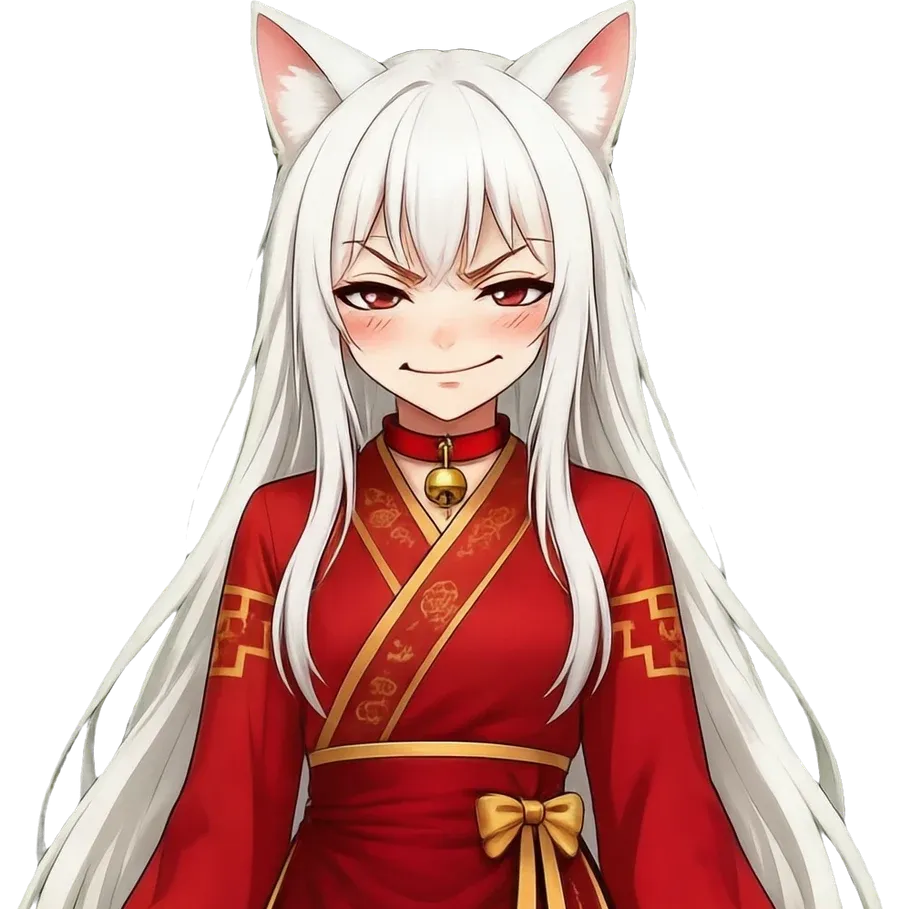
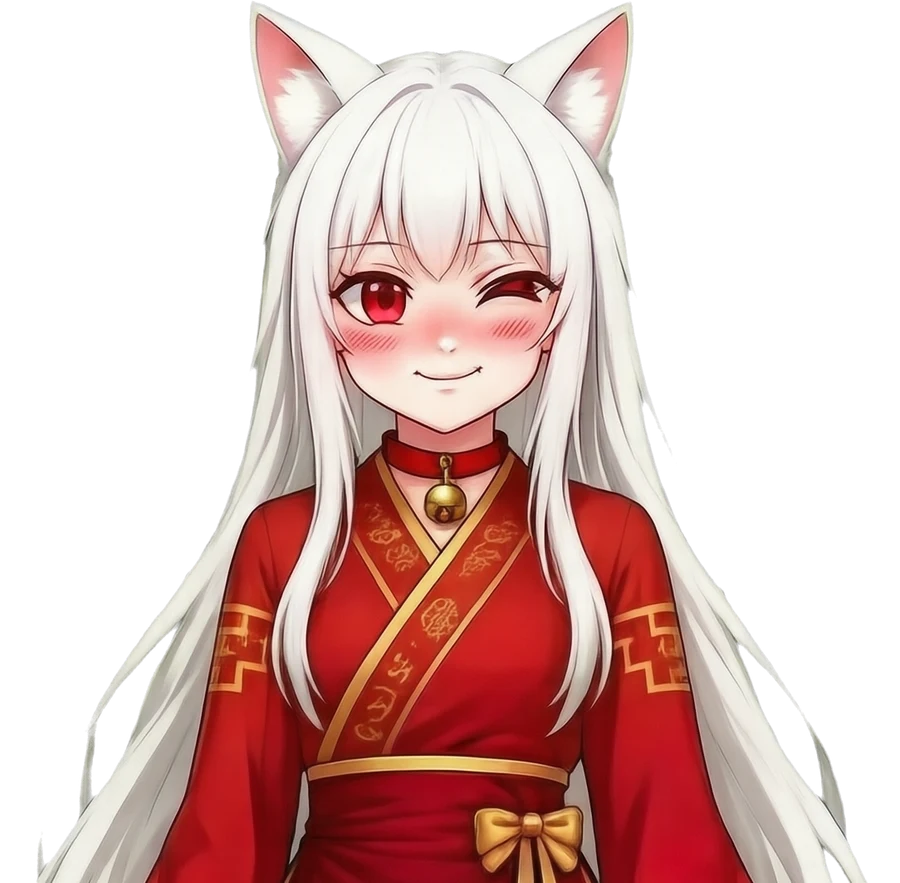
立绘: smug得意表情重做——阴险坏笑改傲娇得意(嘟嘴鼓腮+脸红+抬下巴+可爱笑眼),基准绿幕由git恢复的全身图合成,52%裁切管线一致

diff --git a/galgame/js/engine.js b/galgame/js/engine.js
@@ -49,7 +49,7 @@
       $("#sprites").appendChild(el);
     }
     if (who === "catgirl") el.innerHTML = ART.catGirl(expr || "normal");
-    else el.innerHTML = '<img class="chara-img" src="images/cat_mascot.webp?v=251025c" alt="唐猫（白猫）" draggable="false">';
+    else el.innerHTML = '<img class="chara-img" src="images/cat_mascot.webp?v=251025d" alt="唐猫（白猫）" draggable="false">';
     el.style.width = "clamp(220px, 60vmin, 400px)";
     requestAnimationFrame(() => { el.className = "sprite pos-" + (pos || "center") + " breathe"; });
   }
@@ -483,8 +483,8 @@
   };
   function galGrid(items) {
     return '<div class="gal-grid">' + items.map(g =>
-      '<figure class="gal-item" data-src="' + g.src + '?v=251025c" data-cap="' + g.cap + '">' +
-      '<img src="' + g.src + '?v=251025c" alt="" loading="lazy"><figcaption>' + g.cap + '</figcaption></figure>'
+      '<figure class="gal-item" data-src="' + g.src + '?v=251025d" data-cap="' + g.cap + '">' +
+      '<img src="' + g.src + '?v=251025d" alt="" loading="lazy"><figcaption>' + g.cap + '</figcaption></figure>'
     ).join("") + '</div>';
   }
   function showGallery() {
@@ -594,7 +594,7 @@
 
   /* ---------- 启动 ---------- */
   function boot() {
-    window.__GALGAME_VER = "251025c";
+    window.__GALGAME_VER = "251025d";
     $("#title-bg").innerHTML = ART.titleBg();
     bind();
     refreshTitle();

diff --git a/galgame/index.html b/galgame/index.html
@@ -5,7 +5,7 @@
 <meta name="viewport" content="width=device-width, initial-scale=1.0, viewport-fit=cover">
 <title>唐猫庭院 · 千年陕菜谭</title>
 <meta name="description" content="唐猫庭院 galgame —— 一段发生在千年陕菜庭院里的小小奇遇。为唐猫庭院餐厅与其点餐推荐系统而作的宣传视觉小说。">
-<link rel="stylesheet" href="style.css?v=251025c">
+<link rel="stylesheet" href="style.css?v=251025d">
 </head>
 <body>
 <div id="app">
@@ -68,15 +68,15 @@
   </div>
 </div>
 
-<script src="js/art.js?v=251025c"></script>
-<script src="js/audio.js?v=251025c"></script>
-<script src="js/story.js?v=251025c"></script>
-<script src="js/engine.js?v=251025c"></script>
+<script src="js/art.js?v=251025d"></script>
+<script src="js/audio.js?v=251025d"></script>
+<script src="js/story.js?v=251025d"></script>
+<script src="js/engine.js?v=251025d"></script>
 <script>
 /* 缓存自愈：若检测到旧版 engine（无版本标记）在跑，绕过缓存自动强刷一次（sessionStorage 防循环） */
 (function () {
   setTimeout(function () {
-    if (window.__GALGAME_VER === "251025c") return;
+    if (window.__GALGAME_VER === "251025d") return;
     try {
       if (sessionStorage.getItem("_gv_healed")) return;
       sessionStorage.setItem("_gv_healed", "1");

diff --git a/galgame/js/art.js b/galgame/js/art.js
@@ -91,7 +91,7 @@ const ART = (() => {
   };
   function catGirl(exprKey) {
     const img = CHARA_MAP[exprKey] || "smile";
-    return '<img class="chara-img" src="images/chara_' + img + '.webp?v=251025c" alt="唐猫" draggable="false">';
+    return '<img class="chara-img" src="images/chara_' + img + '.webp?v=251025d" alt="唐猫" draggable="false">';
   }
   /* 预加载全部差分，避免表情切换时闪白 */
   ["smile", "surprised", "sad", "soft", "cry", "excited", "shy", "smug"].forEach(n => {
@@ -189,7 +189,7 @@ const ART = (() => {
   /* ================= 场景背景（AI 厚涂竖版图包装为 svg，900x1600 与 9:16 生成图精确匹配） ================= */
   function photoBg(src, extra) {
     return '<svg viewBox="0 0 900 1600" preserveAspectRatio="xMidYMid slice" xmlns="http://www.w3.org/2000/svg">' +
-      '<image href="images/' + src + '?v=251025c" width="900" height="1600"/>' + (extra || "") +
+      '<image href="images/' + src + '?v=251025d" width="900" height="1600"/>' + (extra || "") +
       '</svg>';
   }
 
